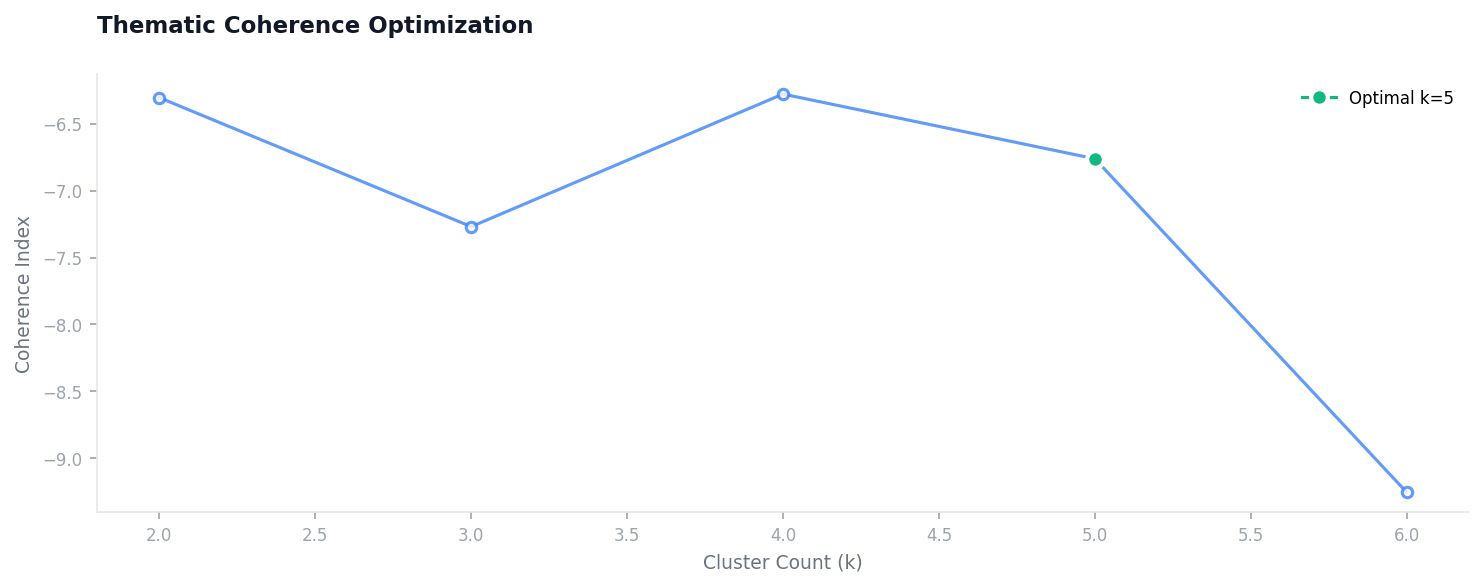
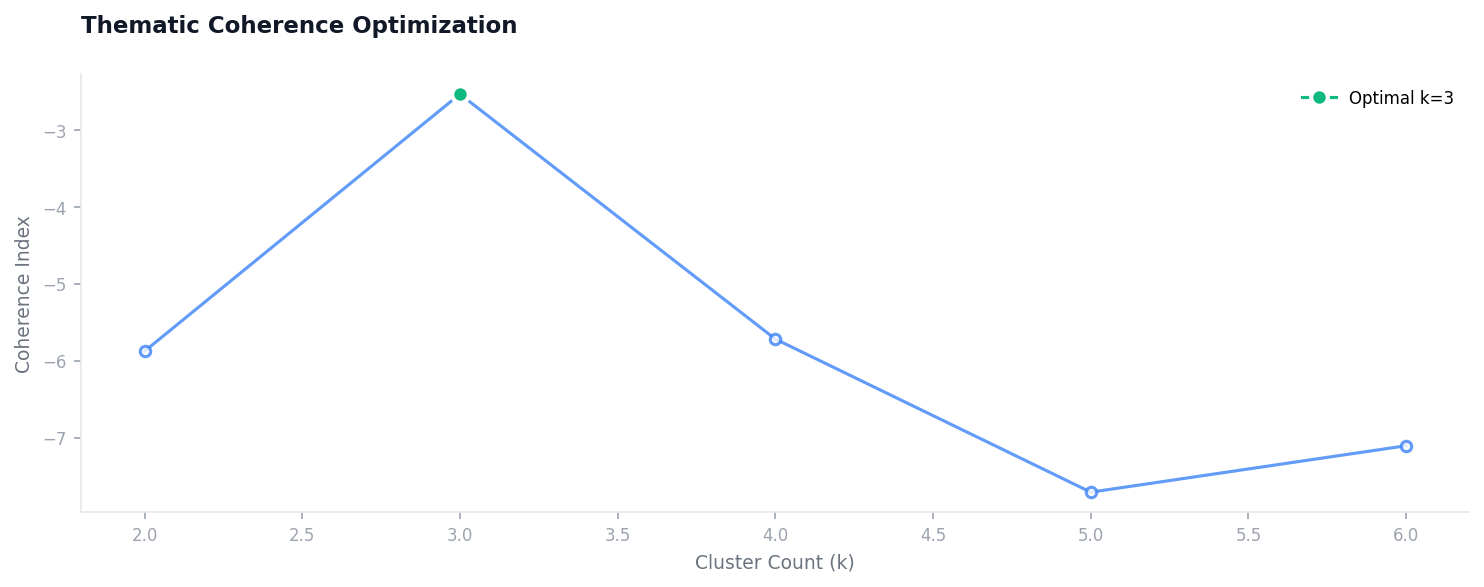
The forms are completed, now forms are more robust to generate and analyze.

diff --git a/templates/crud/editor.html b/templates/crud/editor.html
@@ -1,35 +1,42 @@
 <!-- Industrial Forensic Editor -->
 <div id="editorModal" class="fixed inset-0 z-[100] bg-gray-900/30 backdrop-blur-md items-center justify-center p-6 hidden">
-    <div class="bg-white theme-bg w-full max-w-xl rounded-xl shadow-[0_20px_50px_rgba(0,0,0,0.3)] border theme-border overflow-hidden flex flex-col editor-kinetic">
+    <div class="bg-white theme-bg w-full max-w-xl rounded-[5px] shadow-[0_30px_70px_rgba(0,0,0,0.4)] border theme-border overflow-hidden flex flex-col editor-kinetic ring-1 ring-white/10">
         
         <!-- Precision Title Bar -->
-        <header class="h-10 pl-5 pr-1 border-b theme-border flex items-center justify-between bg-gray-50/5 rounded-t-xl shrink-0">
+        <header class="h-8 pl-5 pr-0 border-b theme-border flex items-center justify-between bg-gray-50/5 rounded-t-[5px] shrink-0">
             <div class="flex items-center gap-2.5">
-                <div class="w-2 h-2 bg-blue-600 rounded-full animate-pulse"></div>
-                <h2 id="editorTitle" class="text-[9px] font-bold theme-text uppercase tracking-[0.2em] opacity-60">Forensic Refinement</h2>
+                <div class="w-1.5 h-1.5 bg-blue-600 rounded-full animate-pulse shadow-[0_0_8px_rgba(37,99,235,0.6)]"></div>
+                <h2 id="editorTitle" class="text-[10px] font-bold theme-text tracking-wide opacity-80">Forensic refinement</h2>
             </div>
-            <button onclick="toggleEditor()" class="h-10 w-10 flex items-center justify-center theme-text-sec hover:bg-red-500 hover:text-white active:scale-90 transition-all duration-200">
+            <button onclick="toggleEditor()" class="h-8 w-10 flex items-center justify-center theme-text-sec hover:bg-red-500 hover:text-white active:scale-90 rounded-tr-[5px] transition-all duration-200">
                 <svg class="w-4 h-4" fill="none" stroke="currentColor" viewBox="0 0 24 24"><path stroke-linecap="round" stroke-linejoin="round" stroke-width="2" d="M6 18L18 6M6 6l12 12"></path></svg>
             </button>
         </header>
 
         <!-- Editor Body -->
         <div class="p-6 space-y-4">
-            <div class="space-y-2">
-                <label class="text-[9px] font-bold theme-text-sec uppercase tracking-[0.2em] opacity-40">Neural Instruction</label>
+            <div class="space-y-1.5">
+                <label class="text-[9px] font-bold theme-text-sec tracking-wide opacity-40">Neural instruction</label>
                 <div class="relative">
                     <input id="editorPrompt" type="text" 
-                           class="w-full bg-blue-600/5 theme-text px-4 py-2.5 rounded-lg border theme-border focus:border-blue-500/30 outline-none text-[12px] placeholder:opacity-30 transition-all"
+                           class="w-full bg-blue-600/5 theme-text px-4 py-2.5 rounded-lg border theme-border focus:border-blue-500/30 outline-none text-[12px] placeholder:opacity-30 transition-all disabled:opacity-50"
                            placeholder="Enter instruction (e.g. 'Summarize', 'Fix symbols', 'Extract logic')..."
                            onkeydown="if(event.key === 'Enter') refineCurrentContent()">
-                    <div class="absolute right-3 top-2.5 flex items-center gap-2">
+                    <div id="neuralActivity" class="absolute right-3 top-2.5 hidden items-center gap-2">
+                        <div class="flex gap-0.5">
+                            <div class="w-1 h-3 bg-blue-500 animate-[loading_1s_ease-in-out_infinite]"></div>
+                            <div class="w-1 h-3 bg-blue-500 animate-[loading_1s_ease-in-out_infinite_0.2s]"></div>
+                            <div class="w-1 h-3 bg-blue-500 animate-[loading_1s_ease-in-out_infinite_0.4s]"></div>
+                        </div>
+                    </div>
+                    <div id="neuralPromptHint" class="absolute right-3 top-2.5 flex items-center gap-2 pointer-events-none">
                         <span class="text-[8px] font-bold theme-text-sec opacity-20 uppercase tracking-widest">⏎ to execute</span>
                     </div>
                 </div>
             </div>
 
-            <div class="space-y-2">
-                <label class="text-[9px] font-bold theme-text-sec uppercase tracking-[0.2em] opacity-40">Forensic Workspace</label>
+            <div class="space-y-1.5">
+                <label class="text-[9px] font-bold theme-text-sec tracking-wide opacity-40">Forensic workspace</label>
                 <textarea id="editorContent" 
                     class="w-full h-72 theme-bg-sec theme-text p-5 rounded-lg border theme-border focus:border-blue-500/30 focus:ring-4 focus:ring-blue-500/5 outline-none text-[13px] leading-relaxed font-light resize-none custom-scrollbar transition-all duration-300 placeholder:opacity-20"
                     placeholder="Awaiting input..."></textarea>
@@ -39,19 +46,10 @@
         <!-- Footer Actions -->
         <footer class="px-6 pb-6 flex items-center justify-between">
             <div class="flex items-center gap-2">
-                <button onclick="refineCurrentContent()" 
-                        class="px-4 py-2 bg-blue-600/10 text-blue-600 rounded-lg text-[9px] font-bold uppercase tracking-widest hover:bg-blue-600 hover:text-white transition-all flex items-center gap-2 group">
-                    <svg class="w-3 h-3 animate-pulse" fill="none" stroke="currentColor" viewBox="0 0 24 24"><path stroke-linecap="round" stroke-linejoin="round" stroke-width="2" d="M13 10V3L4 14h7v7l9-11h-7z"></path></svg>
-                    Neural Refine
-                </button>
             </div>
             <div class="flex items-center gap-3">
-                <button onclick="toggleEditor()" 
-                        class="px-5 py-2.5 text-[10px] font-bold theme-text-sec uppercase tracking-widest hover:theme-text active:scale-95 transition-all">
-                    Cancel
-                </button>
-                <button onclick="saveDocument()" 
-                        class="px-8 py-2.5 bg-blue-600 text-white rounded-lg text-[10px] font-bold uppercase tracking-widest hover:bg-blue-700 active:scale-95 transition-all duration-200">
+                <button id="editorSubmitBtn" onclick="saveDocument()" 
+                        class="px-8 py-2 bg-blue-600 text-white rounded-[3px] text-[10px] font-bold tracking-wide hover:bg-blue-700 active:scale-95 transition-all duration-200 shadow-lg shadow-blue-500/20">
                     Update
                 </button>
             </div>
@@ -66,6 +64,19 @@
     @keyframes editorSlide {
         from { opacity: 0; transform: translateY(20px); }
         to { opacity: 1; transform: translateY(0); }
+    }
+    @keyframes loading {
+        0%, 100% { height: 4px; opacity: 0.3; }
+        50% { height: 12px; opacity: 1; }
+    }
+    .ghost-shimmer {
+        background: linear-gradient(90deg, transparent, rgba(37, 99, 235, 0.05), transparent);
+        background-size: 200% 100%;
+        animation: shimmer 1.5s infinite;
+    }
+    @keyframes shimmer {
+        0% { background-position: -200% 0; }
+        100% { background-position: 200% 0; }
     }
     .custom-scrollbar::-webkit-scrollbar {
         width: 3px;

diff --git a/static/js/edit.js b/static/js/edit.js
@@ -17,8 +17,11 @@ window.openEditor = function(docId = null, existingContent = '') {
     
     const title = document.getElementById('editorTitle');
     const contentArea = document.getElementById('editorContent');
+    const submitBtn = document.getElementById('editorSubmitBtn');
     
     title.innerText = docId ? `Refining Document #${docId}` : 'Injecting New Correlation';
+    if (submitBtn) submitBtn.innerText = docId ? 'Edit' : 'Archive';
+    
     contentArea.value = existingContent;
     
     toggleEditor();
@@ -37,7 +40,7 @@ window.performUpdate = async function(docId) {
         });
 
         if (response.ok) {
-            showToast('Correlation updated successfully', 'success');
+            showToast('Document updated', 'success');
             toggleEditor();
 
             // Surgical DOM Update
@@ -65,9 +68,18 @@ window.refineCurrentContent = async function() {
     const rawText = editor.value;
     const prompt = promptInput.value;
     
-    if (!rawText.trim()) return showToast('Input required for refinement', 'info');
+    const activity = document.getElementById('neuralActivity');
+    const hint = document.getElementById('neuralPromptHint');
 
-    showToast(prompt ? `Neural Engine: Executing '${prompt}'...` : 'Neural Engine: Refining current workspace...', 'info');
+    if (!rawText.trim() && !prompt.trim()) return showToast('Neural Engine: Instruction or context required.', 'info');
+
+    // Enter Neural Loading State
+    if (activity) activity.classList.remove('hidden');
+    if (hint) hint.classList.add('hidden');
+    promptInput.disabled = true;
+    editor.classList.add('ghost-shimmer', 'opacity-50');
+    const originalPlaceholder = editor.placeholder;
+    editor.placeholder = " [ NEURAL SYNTHESIS IN PROGRESS... ]";
 
     try {
         const response = await fetch('/api/refine', {
@@ -84,49 +96,47 @@ window.refineCurrentContent = async function() {
         const data = await response.json();
         const refined = data.refined_text;
         
+        // Exit Neural Loading State
+        if (activity) activity.classList.add('hidden');
+        if (hint) hint.classList.remove('hidden');
+        promptInput.disabled = false;
+        editor.classList.remove('ghost-shimmer', 'opacity-50');
+        editor.placeholder = originalPlaceholder;
+        
         // Absolute DOM Override Sequence
         setTimeout(() => {
             try {
                 const targets = document.querySelectorAll('#editorContent');
                 targets.forEach(el => {
-                    el.readOnly = false;
-                    el.disabled = false;
-                    el.focus();
-                    
-                    window.getSelection().removeAllRanges();
-                    el.setSelectionRange(0, el.value.length);
-                    
-                    // Native RangeText Swap
-                    el.setRangeText(refined, 0, el.value.length, 'end');
-
-                    if (el.value !== refined) {
-                        document.execCommand('insertText', false, refined);
+                    // Simple, robust override for blank canvas generation
+                    if (!el.value.trim()) {
+                        el.value = refined;
+                    } else {
+                        // Surgical range replacement for existing content
+                        el.setSelectionRange(0, el.value.length);
+                        el.setRangeText(refined, 0, el.value.length, 'end');
                     }
-
-                    if (el.value !== refined) {
-                        const nativeSetter = Object.getOwnPropertyDescriptor(window.HTMLTextAreaElement.prototype, 'value').set;
-                        nativeSetter.call(el, refined);
-                        el.innerText = refined;
-                    }
-
-                    const len = el.value.length;
-                    el.setSelectionRange(len, len);
+                    
                     el.dispatchEvent(new Event('input', { bubbles: true }));
                     el.dispatchEvent(new Event('change', { bubbles: true }));
 
-                    el.classList.add('ring-4', 'ring-blue-500/20', 'border-blue-500');
-                    setTimeout(() => el.classList.remove('ring-4', 'ring-blue-500/20', 'border-blue-500'), 800);
+                    el.classList.add('ring-4', 'ring-blue-500/30', 'border-blue-500');
+                    setTimeout(() => el.classList.remove('ring-4', 'ring-blue-500/30', 'border-blue-500'), 1000);
                 });
 
-                // Clear prompt on success
                 promptInput.value = '';
-                showToast('Neural Refinement applied to workspace.', 'success');
             } catch (err) {
                 console.error('Refinement Injection Error:', err);
                 editor.value = refined;
             }
         }, 150);
     } catch (error) {
+        // Emergency Reset on Failure
+        if (activity) activity.classList.add('hidden');
+        if (hint) hint.classList.remove('hidden');
+        promptInput.disabled = false;
+        editor.classList.remove('ghost-shimmer', 'opacity-50');
+        
         showToast(error.message, 'error');
     }
 };

diff --git a/static/js/insert.js b/static/js/insert.js
@@ -14,7 +14,7 @@ window.performInsert = async function() {
 
         if (response.ok) {
             const data = await response.json();
-            showToast('New correlation injected into archive', 'success');
+            showToast('Document created', 'success');
             toggleEditor();
 
             // Fluid Prepend logic

diff --git a/hybrid/RAGMind.py b/hybrid/RAGMind.py
@@ -15,9 +15,10 @@ class RAGMind:
         # Centralized Forensic Prompt Registry
         self.prompts = {
             "refinement": (
-                "You are a Forensic Research Assistant. Your task is to transform the provided text "
-                "based on the specific instruction: '{instruction}'. "
-                "Return ONLY the transformed text with no conversational filler or explanations."
+                "You are a Forensic Research Assistant. Your task is to process or generate text "
+                "based on the instruction: '{instruction}'. "
+                "If text is provided, transform it. If no text is provided, generate a new forensic "
+                "segment from scratch. Return ONLY the final text with no conversational filler."
             ),
             "synthesis": (
                 "You are a Forensic Analyst orchestrating a Signal Synthesis. "
